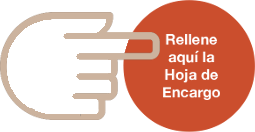
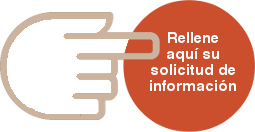
cambiar hoja de encargo por solicitud de información

Changed region(s): [[0.5765, 0.2424, 0.9333, 0.7576]]

diff --git a/como-lo-hacemos.php b/como-lo-hacemos.php
@@ -35,7 +35,7 @@
                     <span class="naranja">01</span>.¿Qué podemos hacer por ti?
                 </div>
                 <div class="explicacion-como">
-                    Detección/Diagnóstico de necesidades del cliente. Hoja de encargo a rellenar por el cliente a través de un formulario.
+                    Detección/Diagnóstico de necesidades del cliente. Rellene usted la solicitud de información para conocer mejor su caso.
                 </div>
                 <hr />
 
